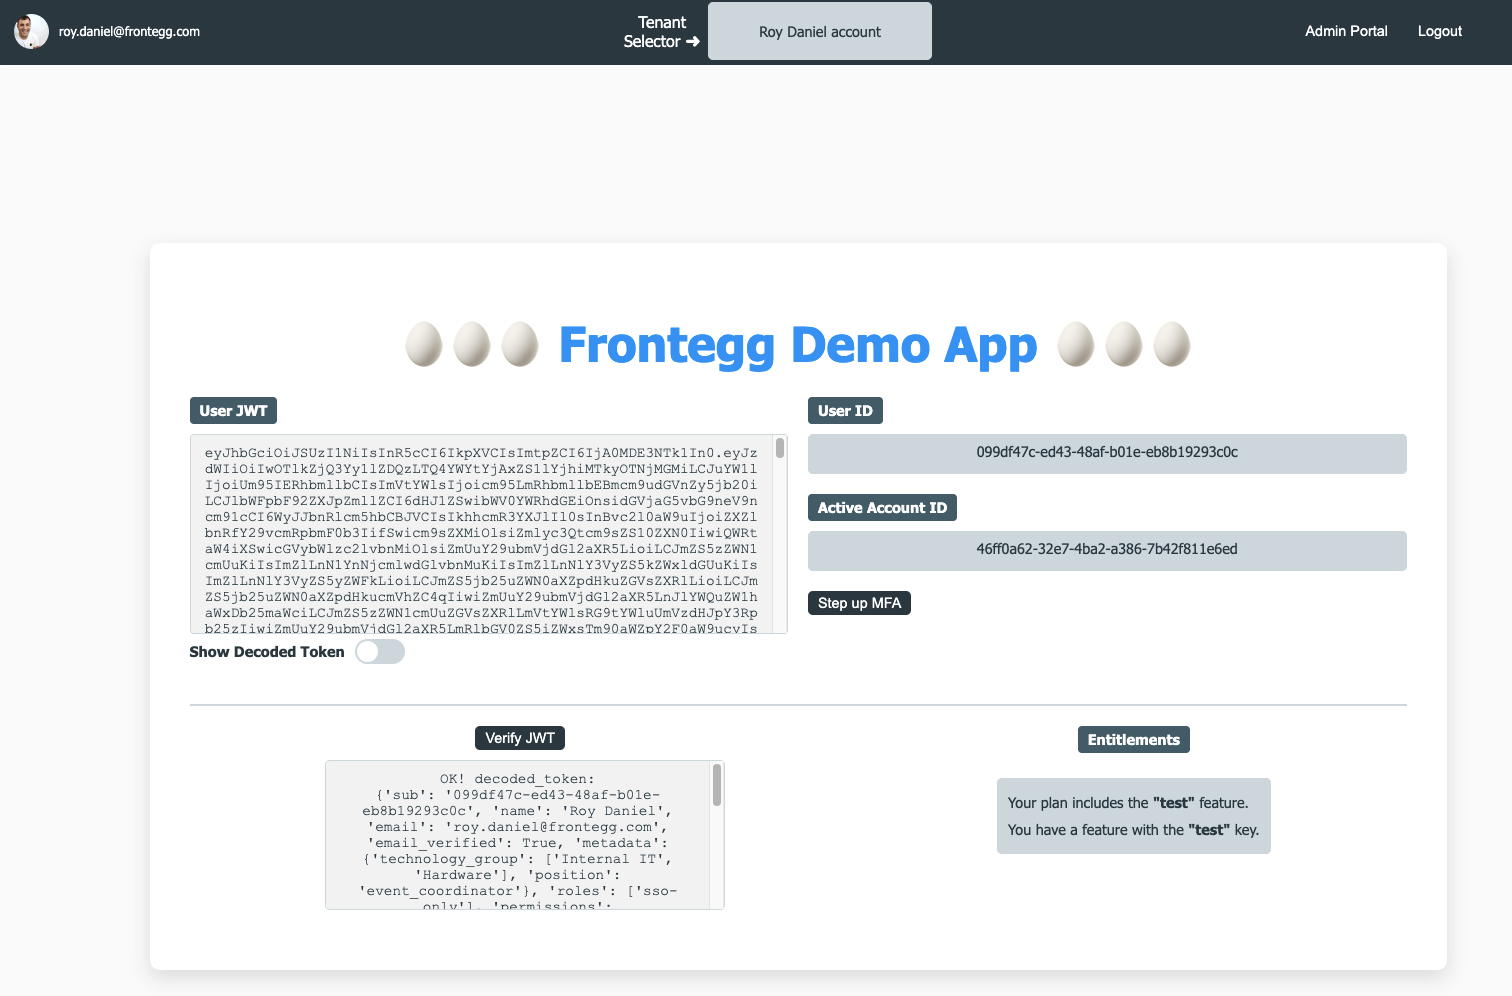
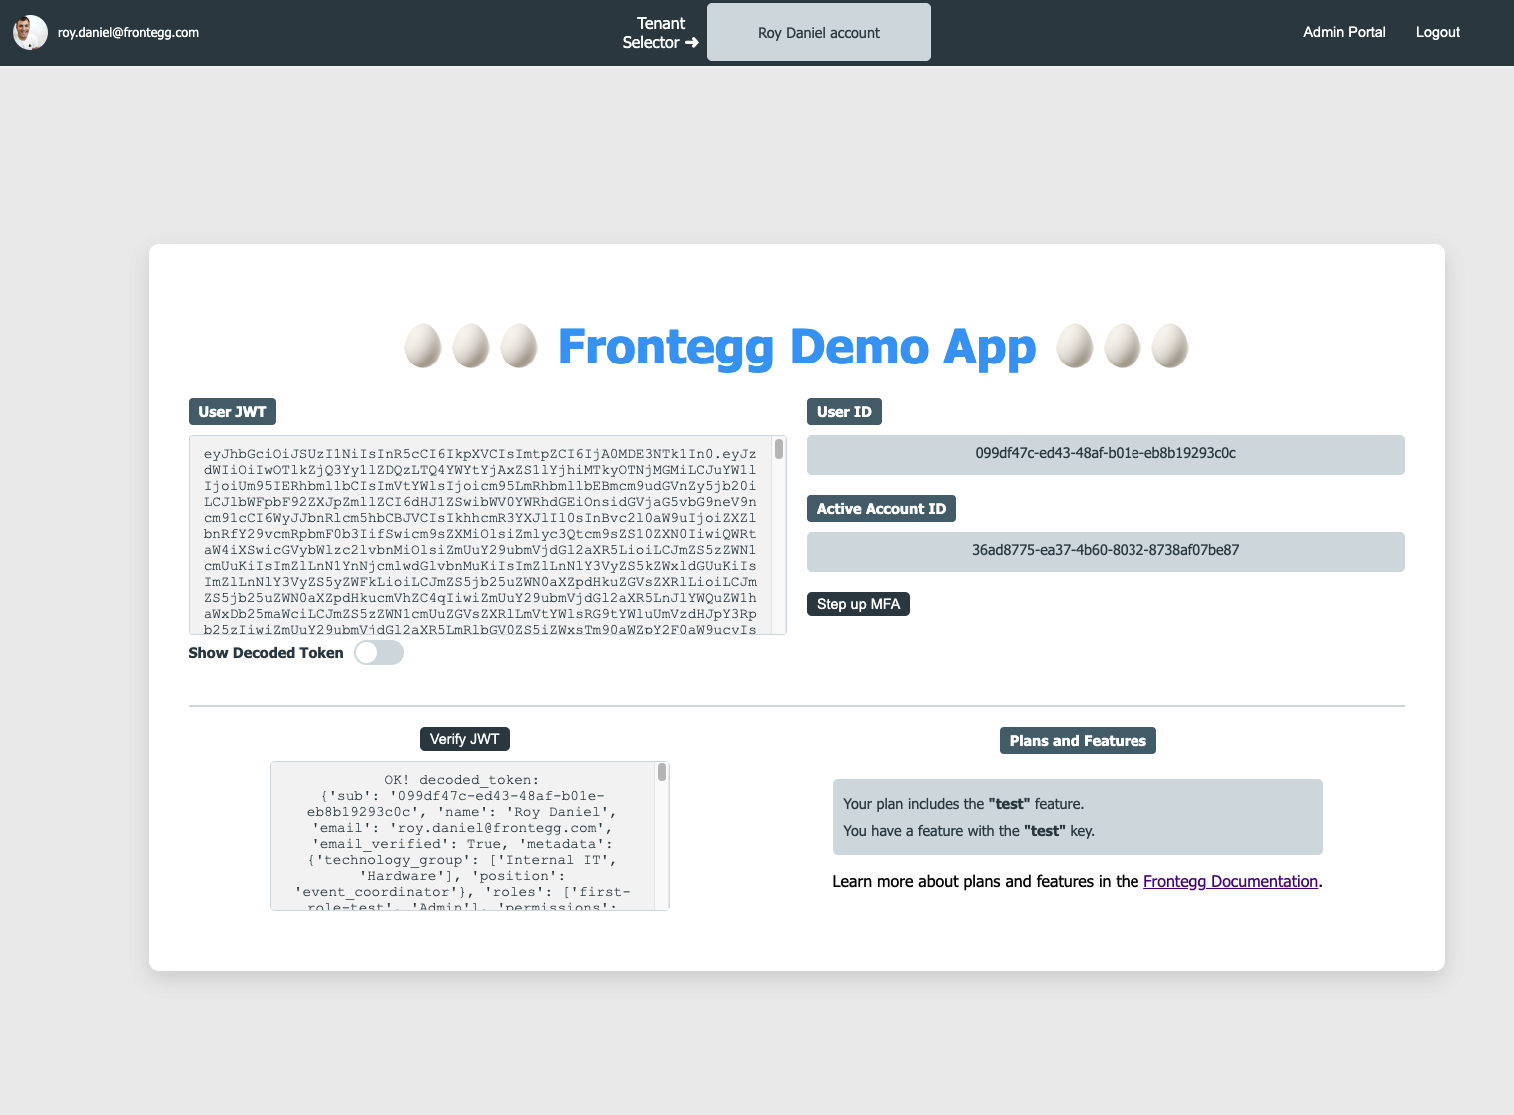
Entitlements update

diff --git a/src/components/EntitlementsInfo.js b/src/components/EntitlementsInfo.js
@@ -5,8 +5,11 @@ import "../index.css";
 import ErrorBoundary from './ErrorBoundary';
 
 const EntitlementsInfo = () => {
+  // ------------------------------------------------------------
+  // TODO: Replace with the entitlement key from your app
+  // Documentation: https://developers.frontegg.com/sdks/frontend/react/entitlements#react-hooks
   const entitlementKey = "test";
-
+  // ------------------------------------------------------------
   const featureEntitlements = useFeatureEntitlements(entitlementKey);
   const permissionEntitlements = usePermissionEntitlements(entitlementKey);
   const entitlementsByPermission = useEntitlements({ permissionKey: entitlementKey });
@@ -22,7 +25,7 @@ const EntitlementsInfo = () => {
   return (
     <ErrorBoundary>
       <div>
-        <label className="info-label">Entitlements</label>
+        <label className="info-label">Plans and Features</label>
         <div className="entitlements-section">
           {isFEntitled && (
             <div className="entitlement-item">
@@ -47,6 +50,18 @@ const EntitlementsInfo = () => {
           {!hasEntitlement && (
             <div className="entitlement-item">No plans \ features </div>
           )}
+        </div>
+        <div className="entitlements-doc">
+          <p>
+            Learn more about plans and features in the&nbsp;
+            <a
+              href="https://developers.frontegg.com/guides/authorization/entitlements/intro"
+              target="_blank"
+              rel="noopener noreferrer"
+            >
+              Frontegg Documentation
+            </a>.
+          </p>
         </div>
       </div>
     </ErrorBoundary>

diff --git a/src/index.css b/src/index.css
@@ -1,5 +1,5 @@
 :root {
-  --background-color: #fbfbfb;
+  --background-color: #ededed;
   --primary-color: #42a5f5;
   --secondary-color: #37474f;
   --light-gray-color: #d5dee2;
